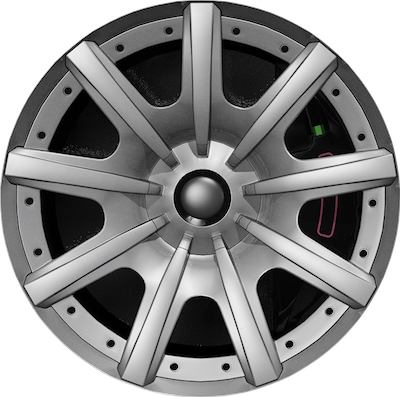
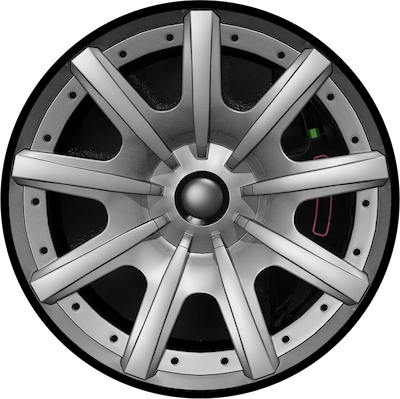
small bug fixes for better wheel display

diff --git a/src/js/diagram/DrawingObjects/VertexObject/VertexObject.js b/src/js/diagram/DrawingObjects/VertexObject/VertexObject.js
@@ -18,7 +18,7 @@ class VertexObject extends DrawingObject {
   webgl: WebGLInstance;         // webgl instance for a html canvas
   glPrimative: number;          // primitive tyle (e.g. TRIANGLE_STRIP)
   buffer: WebGLBuffer;          // Vertex buffer
-  textureBuffer: WebGLBuffer;   
+  textureBuffer: WebGLBuffer;
 
   points: Array<number>;        // Primative vertices of shape
   numPoints: number;            // Number of primative vertices
@@ -46,7 +46,7 @@ class VertexObject extends DrawingObject {
       this.numPoints = numPoints;
     }
 
-    if (this.texturePoints.length === 0) {
+    if (this.texturePoints.length === 0 && this.textureLocation) {
       this.createTextureMap();
     }
 
@@ -58,16 +58,15 @@ class VertexObject extends DrawingObject {
       this.gl.STATIC_DRAW,
     );
 
-    // Create a texture.
-    const texture = this.gl.createTexture();
-    this.gl.bindTexture(this.gl.TEXTURE_2D, texture);
-    // Fill the texture with a 1x1 blue pixel.
-    this.gl.texImage2D(
-      this.gl.TEXTURE_2D, 0, this.gl.RGBA, 1, 1, 0,
-      this.gl.RGBA, this.gl.UNSIGNED_BYTE, new Uint8Array([0, 0, 255, 255]),
-    );
-
     if (this.textureLocation) {
+      // Create a texture.
+      const texture = this.gl.createTexture();
+      this.gl.bindTexture(this.gl.TEXTURE_2D, texture);
+      // Fill the texture with a 1x1 blue pixel.
+      this.gl.texImage2D(
+        this.gl.TEXTURE_2D, 0, this.gl.RGBA, 1, 1, 0,
+        this.gl.RGBA, this.gl.UNSIGNED_BYTE, new Uint8Array([0, 0, 255, 255]),
+      );
       const image = new Image();
       image.src = this.textureLocation;
       image.addEventListener('load', () => {
@@ -136,11 +135,6 @@ class VertexObject extends DrawingObject {
     color: Array<number>,
     count: number,
   ) {
-    // let scale2 = scale;
-    // if (typeof scale2 != "object") {
-    //   scale2 = point(scale, scale);
-    // }
-
     const size = 2;         // 2 components per iteration
     const type = this.gl.FLOAT;   // the data is 32bit floats
     const normalize = false;    // don't normalize the data
@@ -173,29 +167,29 @@ class VertexObject extends DrawingObject {
       color[0], color[1], color[2], color[3],
     );  // Translate
 
-    // Textures
-    // Tell the position attribute how to get data out of positionBuffer (ARRAY_BUFFER)
-    const texSize = 2;          // 2 components per iteration
-    const texType = this.gl.FLOAT;   // the data is 32bit floats
-    const texNormalize = false; // don't normalize the data
-    const texStride = 0;
-    // 0 = move forward size * sizeof(type) each iteration to get
-    // the next position
-    const texOffset = 0;        // start at the beginning of the buffer
+    if (this.textureLocation) {
+      // Textures
+      // Tell the position attribute how to get data out of positionBuffer (ARRAY_BUFFER)
+      const texSize = 2;          // 2 components per iteration
+      const texType = this.gl.FLOAT;   // the data is 32bit floats
+      const texNormalize = false; // don't normalize the data
+      const texStride = 0;
+      // 0 = move forward size * sizeof(type) each iteration to get
+      // the next position
+      const texOffset = 0;        // start at the beginning of the buffer
 
-    this.gl.enableVertexAttribArray(this.webgl.locations.a_texcoord);
-    this.gl.bindBuffer(this.gl.ARRAY_BUFFER, this.textureBuffer);
-    this.gl.vertexAttribPointer(
-      this.webgl.locations.a_texcoord, texSize, texType,
-      texNormalize, texStride, texOffset,
-    );
+      this.gl.enableVertexAttribArray(this.webgl.locations.a_texcoord);
+      this.gl.bindBuffer(this.gl.ARRAY_BUFFER, this.textureBuffer);
+      this.gl.vertexAttribPointer(
+        this.webgl.locations.a_texcoord, texSize, texType,
+        texNormalize, texStride, texOffset,
+      );
+    }
     if (this.textureLocation) {
       this.gl.uniform1i(this.webgl.locations.u_use_texture, 1);
     } else {
       this.gl.uniform1i(this.webgl.locations.u_use_texture, 0);
     }
-
-
     this.gl.drawArrays(this.glPrimative, offset, count);
   }
 

diff --git a/src/Lessons/circlesAndAngles/diagramCollectionCircle.js b/src/Lessons/circlesAndAngles/diagramCollectionCircle.js
@@ -137,6 +137,7 @@ class CircleCollection extends DiagramElementCollection {
     const origin = new Point(0, 0);
     const t = new Transform().rotate(0).translate(0, 0);
 
+    this.add('wheel', makeWheel(shapes, layout));
     this.add('arrow', makeArrow(shapes, layout));
     this.add('angle', makeAngle(shapes, layout));
     this.add('reference', makeReference(shapes, layout));
@@ -150,36 +151,8 @@ class CircleCollection extends DiagramElementCollection {
     this.add('cornerRef', makeCorner(shapes, origin, layout));
     this.add('cornerRad', makeCorner(shapes, t, layout));
     this.add('anchor', makeAnchor(shapes, layout));
-
-    this.add('wheel', makeWheel(shapes, layout));
-    console.log(this._wheel.vertices.texturePoints)
-    console.log(this._wheel.vertices.points)
-
     this.isTouchable = true;
     this.isMovable = true;
-
-    const element = document.createElement('div');
-    element.style.position = 'absolute';
-    // element.style.left = '0px';
-    // element.style.top = '0px';
-    element.style.width = '200px';
-    element.style.height = '200px';
-    element.setAttribute('id', 'id_wheel_picture');
-    this.diagram.htmlCanvas.appendChild(element);
-    const h = new HTMLObject(
-      this.diagram.htmlCanvas, 'id_wheel_picture',
-      new Point(0, 0), 'middle', 'center',
-    );
-    const hp = new DiagramElementPrimative(
-      h,
-      new Transform().translate(-2, 0),
-      [1, 0, 0, 1],
-      this.diagram.limits,
-    );
-    hp.isTouchable = true;
-    hp.isMovable = true;
-    hp.move.limitToDiagram = true;
-    this.add('html', hp);
   }
 
   resize(locations: Object) {

diff --git a/src/js/diagram/DrawingObjects/VertexObject/VertexPolygonFilled.js b/src/js/diagram/DrawingObjects/VertexObject/VertexPolygonFilled.js
@@ -63,16 +63,14 @@ class PolygonFilled extends VertexObject {
     }
     this.textureLocation = textureLocation;
 
-    console.log('polyfilled')
     this.createTextureMap(
-      -this.radius + center.x,
-      this.radius + center.x,
-      -this.radius + center.y,
-      this.radius + center.y,
+      -this.radius * 1.01 + center.x,
+      this.radius * 1.01 + center.x,
+      -this.radius * 1.01 + center.y,
+      this.radius * 1.01 + center.y,
     );
-    console.log('start')
+
     this.setupBuffer();
-    console.log('stop')
   }
 
   drawToAngle(
